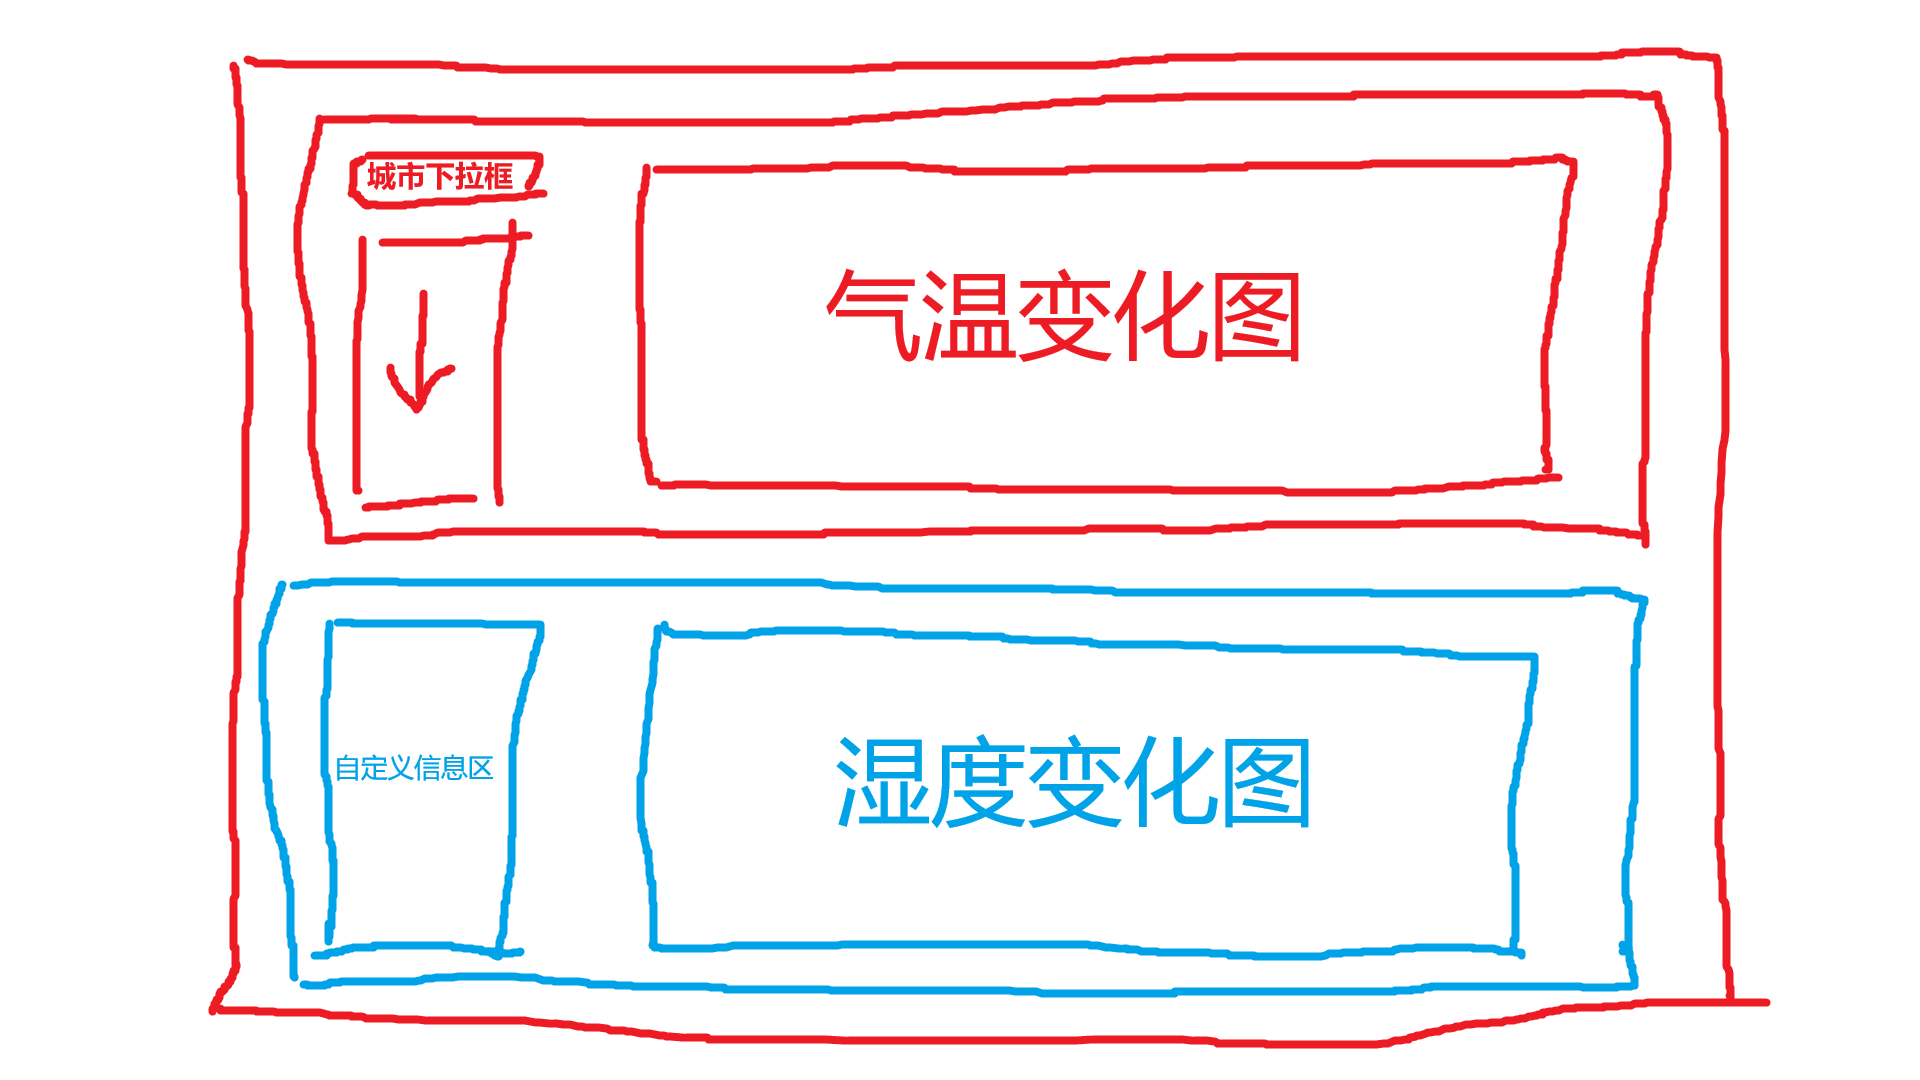
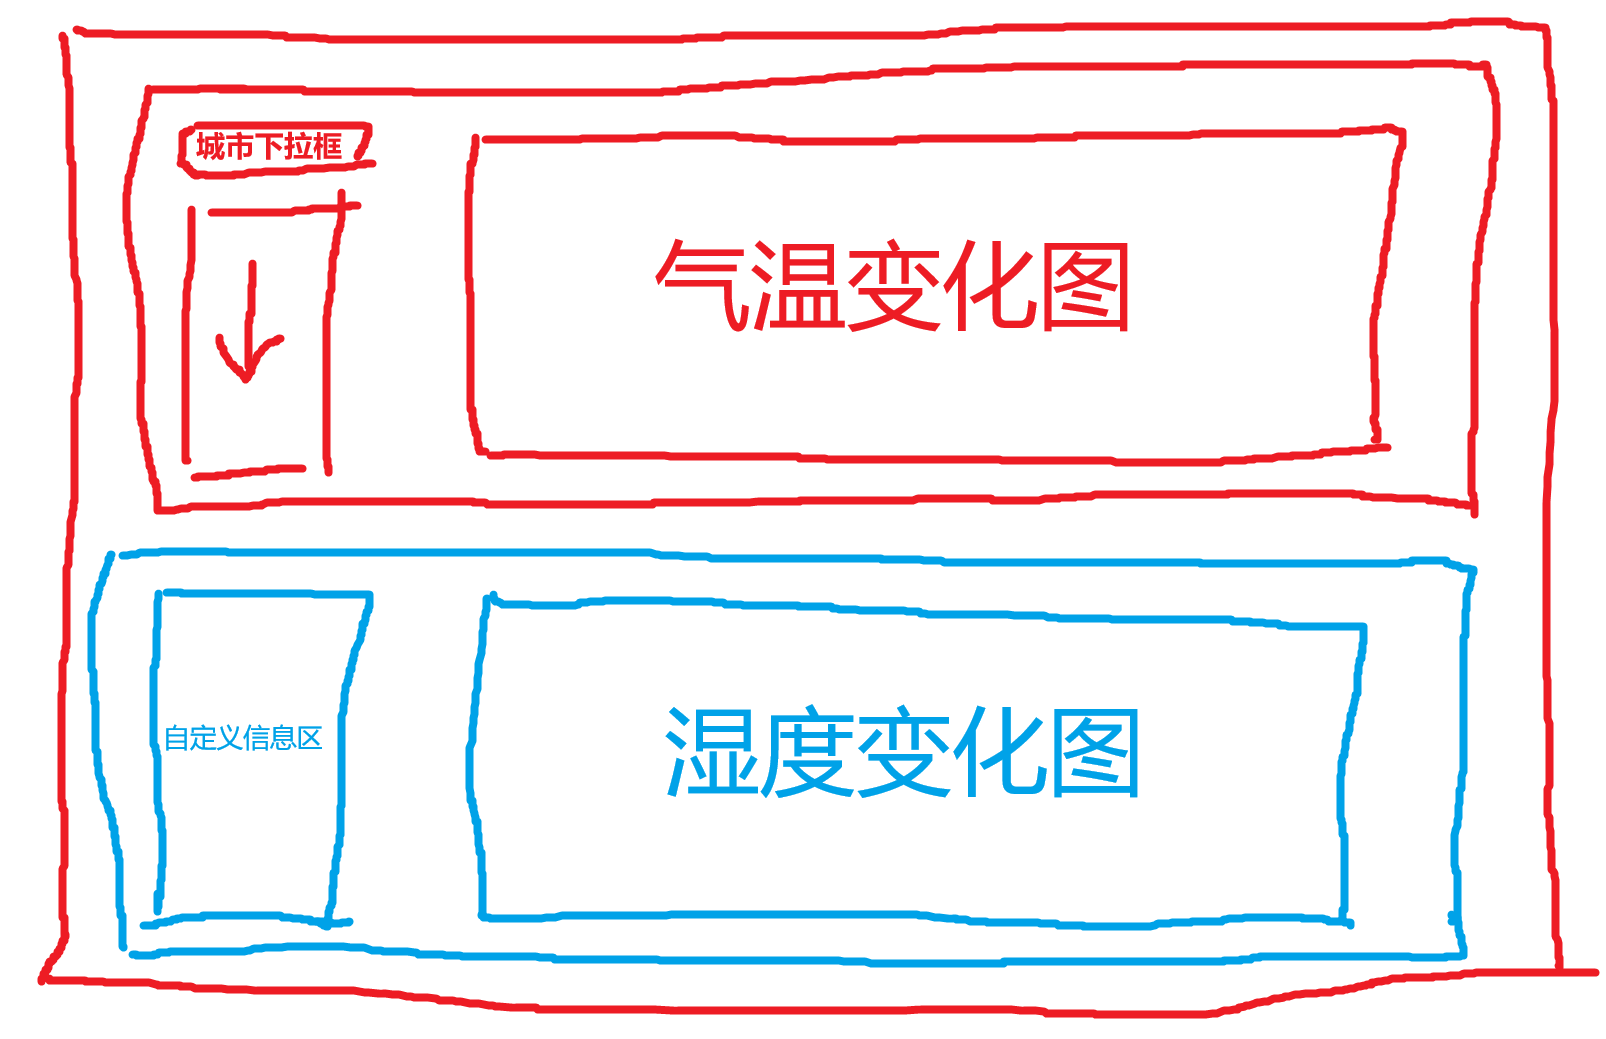
updata

diff --git a/index.html b/index.html
@@ -92,7 +92,7 @@
 </div>
 
 <script>
-// 定义全局变量以便可以销毁旧图表实例
+// 定义全局变量以便可以销毁旧图实例
 var weatherChart;
 var humidityChart;
 

diff --git a/Inquire_mongo.py b/Inquire_mongo.py
@@ -1,7 +1,5 @@
 import json
-
 from pymongo import MongoClient
-
 
 # 连接数据库
 def connect_db():
@@ -9,7 +7,6 @@ def connect_db():
     db = client['tian_qi']
     collection = db['tianQi_data']
     return collection
-
 
 # 查询某个城市的数据函数
 def query_city_data(cityname):
@@ -39,13 +36,10 @@ def query_city_data(cityname):
 
     return data
 
-
 # print(query_city_data('北京'))
 # 只保留winddirect字段的数据
 # result = query_city_data('北京')
 # winddirects = result['winddirect']
-
-
 # print(winddirects)
 
 # 查询温度的函数
@@ -59,9 +53,6 @@ def query_temperature(cityname):
 
 # print(query_temperature('北京'))
 
-
-
-
 # 查询指定城市代码
 def query_code(cityname):
     result = query_city_data(cityname)
@@ -70,7 +61,6 @@ def query_code(cityname):
         'citycode': citycode
     }
     return citycode_data
-
 
 def all_citycode_and_name():
     collection = connect_db()
@@ -83,10 +73,7 @@ def all_citycode_and_name():
 
     return data
 
-
 # print(all_citycode_and_name())
-
-
 # 查询湿度的函数
 def query_humidity(cityname):
     result = query_city_data(cityname)
@@ -96,10 +83,9 @@ def query_humidity(cityname):
     }
     return humidity_data
 
-
 # print(query_humidity('北京'))
 
-# 查询风力的函数
+# 查询风级的函数
 def query_winddirect(cityname):
     result = query_city_data(cityname)
     winddirect = result['winddirect']
@@ -107,7 +93,6 @@ def query_winddirect(cityname):
         'winddirect': winddirect
     }
     return winddirect_data
-
 
 # print(query_winddirect('北京'))
 # 查询更新时间
@@ -119,15 +104,13 @@ def query_updatetime(cityname):
     }
     return updatetime_data
 
-
 # print(query_updatetime('北京'))
 
 # 查询所有城市
 def all_cityname():
     collection = connect_db()
-    # distinct()方法返回集合中所有不重复的元素
+    # distinct()不重复的元素
     city_names = collection.distinct('cityname')
-
     return city_names
 
 def all_phenomena():
@@ -135,6 +118,5 @@ def all_phenomena():
     phenomena = collection.find({}, {'phenomena': 1, '_id': 0})  # 返回所有现象，包括重复
     phenomena_list = [doc['phenomena'] for doc in phenomena]
     json_data = json.dumps({"phenomena": phenomena_list})
-
     return json_data
 # print(all_phenomena())

diff --git a/allQuery_api.py b/allQuery_api.py
@@ -10,7 +10,7 @@ app = Flask(__name__)
 CORS(app)
 
 
-# 所有城市的查询
+# 查询所有城市
 # http://127.0.0.1:5000/get_city_names
 @app.route('/get_city_names', methods=['GET'])
 def get_city_names():

diff --git a/README.md b/README.md
@@ -1,9 +1,9 @@
 # 炒点python不加SQL
-## 王老师的数据采集和可视化作业:Python+MongoDb+chart.js实现各个城市天气情况的可视化并使用html+css在web中展示
+### 王老师的数据采集和可视化作业:Python+MongoDb+chart.js实现各个城市天气情况的可视化并使用html+css在web中展示
 **[最终效果图](./all_img/dome—OK.png)✨**
 ![](./all_img/dome—OK.png)
 ## [绿色安装MongoDB看这篇文章🧐](./mongo从安装到使用.md)
-自己写的,一步步来一次装好;
+自己写的，一步步来一次装好;
 ## 源数据的导入🛠
 给了一个[csv的源数据](./csv源数据/all_cities_weather_data.csv)，需要先将它倒入到mongoDB中去；
 ```ssh
@@ -14,6 +14,27 @@
 ![](./all_img/导入csv.png)
 ![](./all_img/导入csv2.png)
 检查没有提的话然后Import就可以了;
+## 项目结构🗂
+### [run_All.py](./run_All.py)
+> 如果没有这个，我就需要先执行[allQuery_api.py](./allQuery_api.py)
+再打开[index.html](./index.html)，所以就有这个，直接双击执行便可，会自动打开浏览器看到你想看到的东西，要退出的话CTRL+C
+> 
+### [index.html](./index.html)
+> web展示页，div层如图所示
+> 
+![](./web设计图.png)
+### [Inquire_mongo.py](./Inquire_mongo.py)
+> 数据获取和规则处理
+> 
+### [js/chart.js](./jschart.js)
+> 可视化的关键，现学现卖;
+> 
+### [allQuery_api.py](./allQuery_api.py)
+> api的封装，我前面做了很多的查询规则，所以封装了很多api，其实这次作业能用到的就两个api，加上我自己主动添加的两个需求"湿度变化图"和"天气概览"就四个api，我有时间的话会调用这些api试着多做些可视化操作，练习嘛;
+> 
+> 
+
+
 
 
 

diff --git a/mongo从安装到使用.md b/mongo从安装到使用.md
@@ -6,7 +6,7 @@
 
 怕麻烦的话选择安装包下载，
 
-图片
+图
 
 如果不想爆掉C盘就选择压缩包
 
